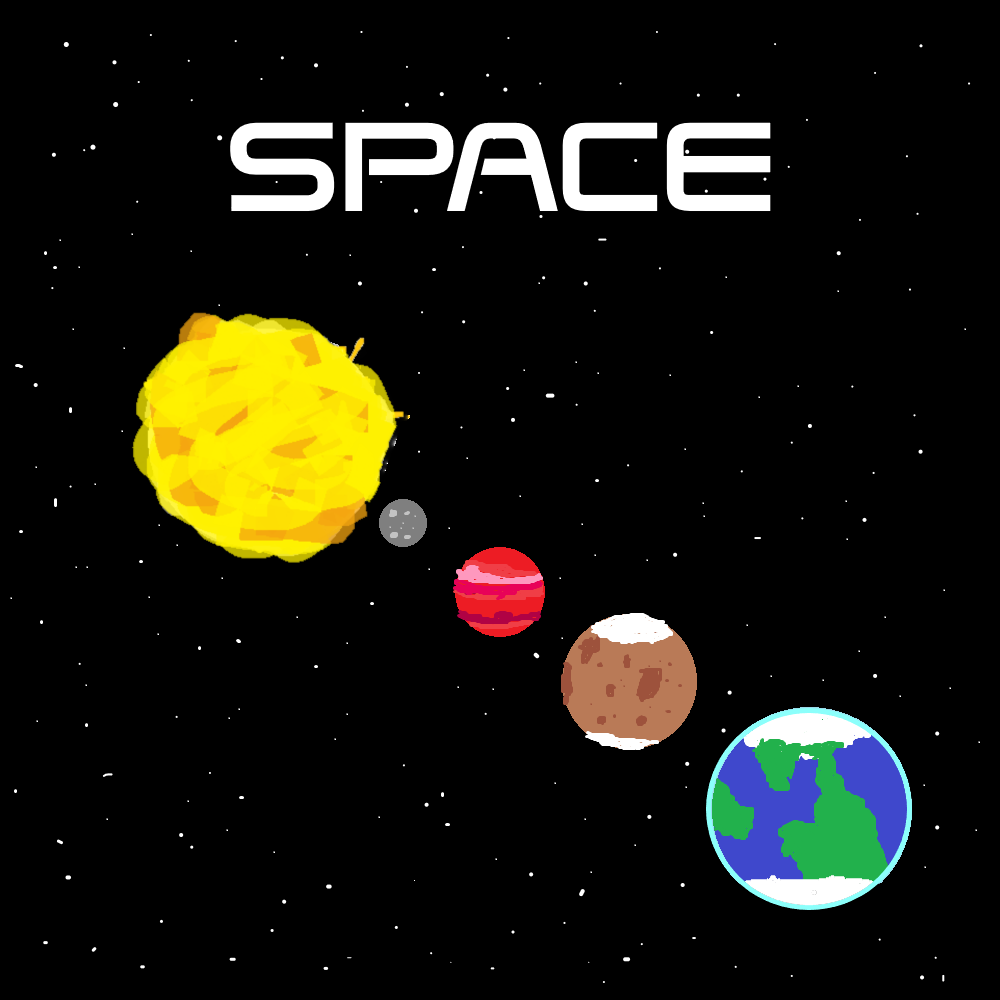
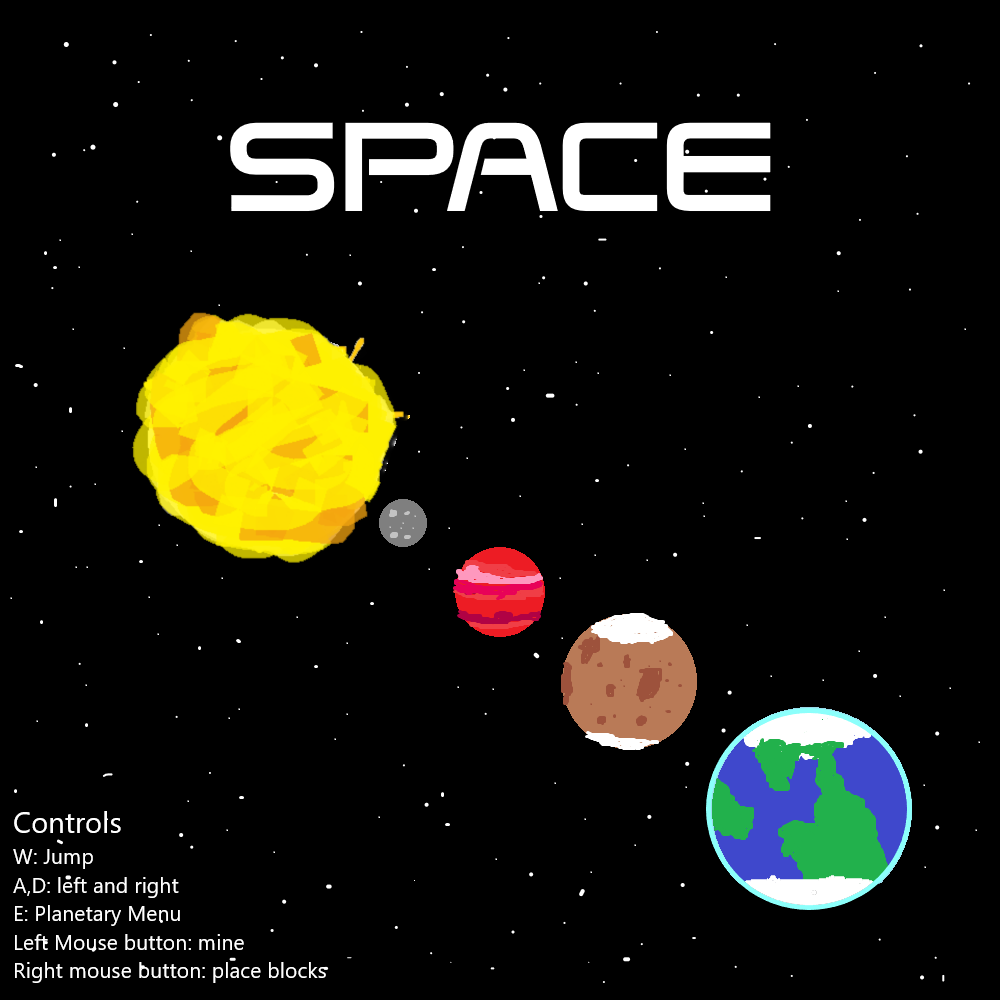
Added control tips

Changed region(s): [[0.0, 0.806, 0.341, 0.992]]

diff --git a/out/source/SpaceV2.java b/out/source/SpaceV2.java
@@ -174,6 +174,11 @@ public void draw() {
         fill(255);
         //rect(playerX-(playerSize/2),playerY-(playerSize/2),playerSize,playerSize);
         image(player, playerX-(playerSize/2), playerY-(playerSize/2), playerSize, playerSize);
+
+        noFill();
+        stroke(0);
+        rect((int)((mouseX+playerX-width/2)/blockSize)*blockSize,(int)((mouseY+playerY-height/2)/blockSize)*blockSize,blockSize,blockSize);
+
         translate(-(-playerX+(width/2.0f)), -(-playerY+(height/2.0f)));
    
     //inventory
@@ -202,6 +207,7 @@ public void draw() {
             xOffset = -(int)((inventory.size()*blockSize)/2);
             rect((width/2)+xOffset+selectedItem*blockSize,height-blockSize,blockSize,height-blockSize);
         }
+       
     }else {
         drawGUI();
     }
